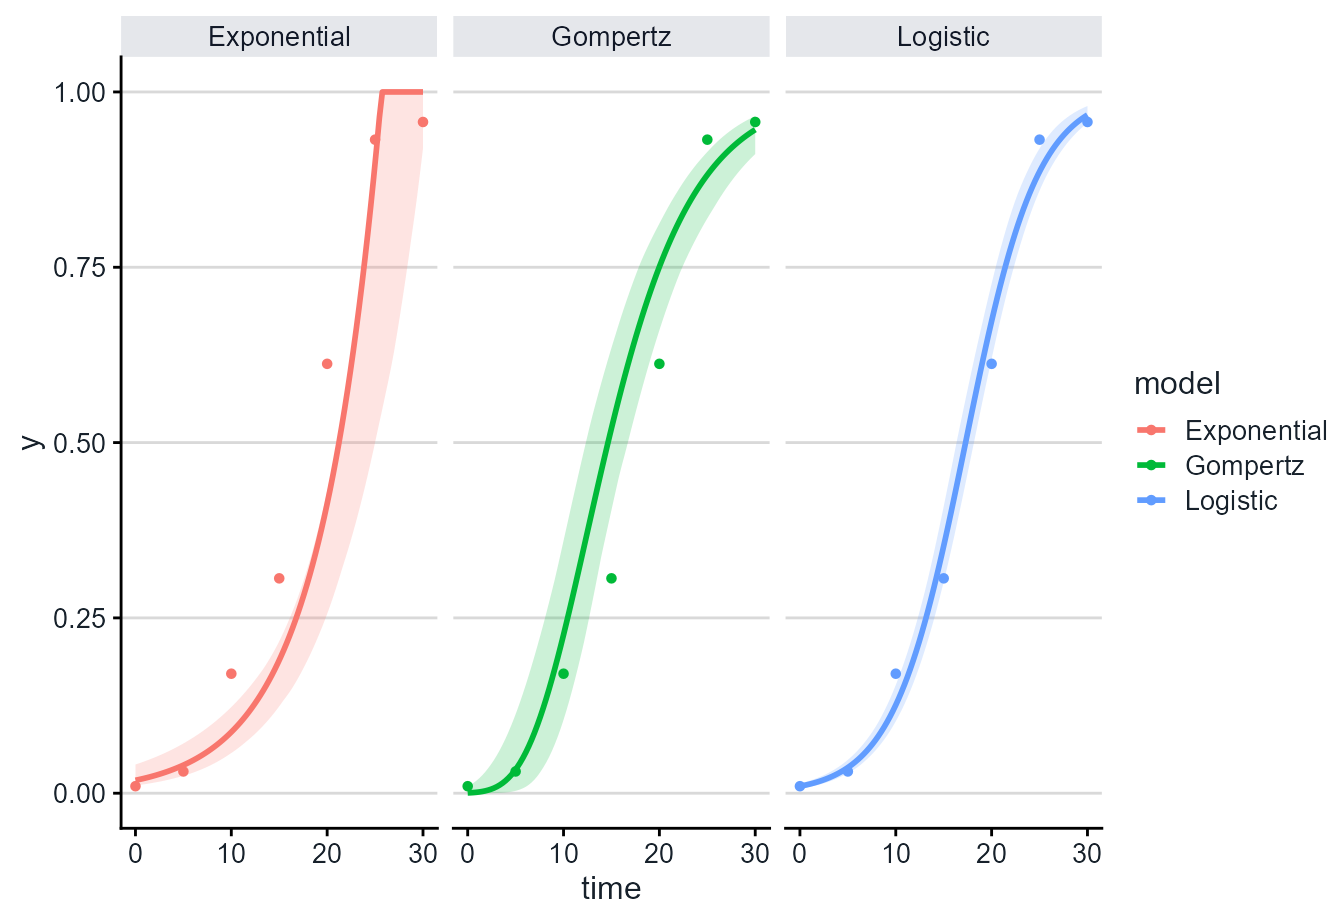
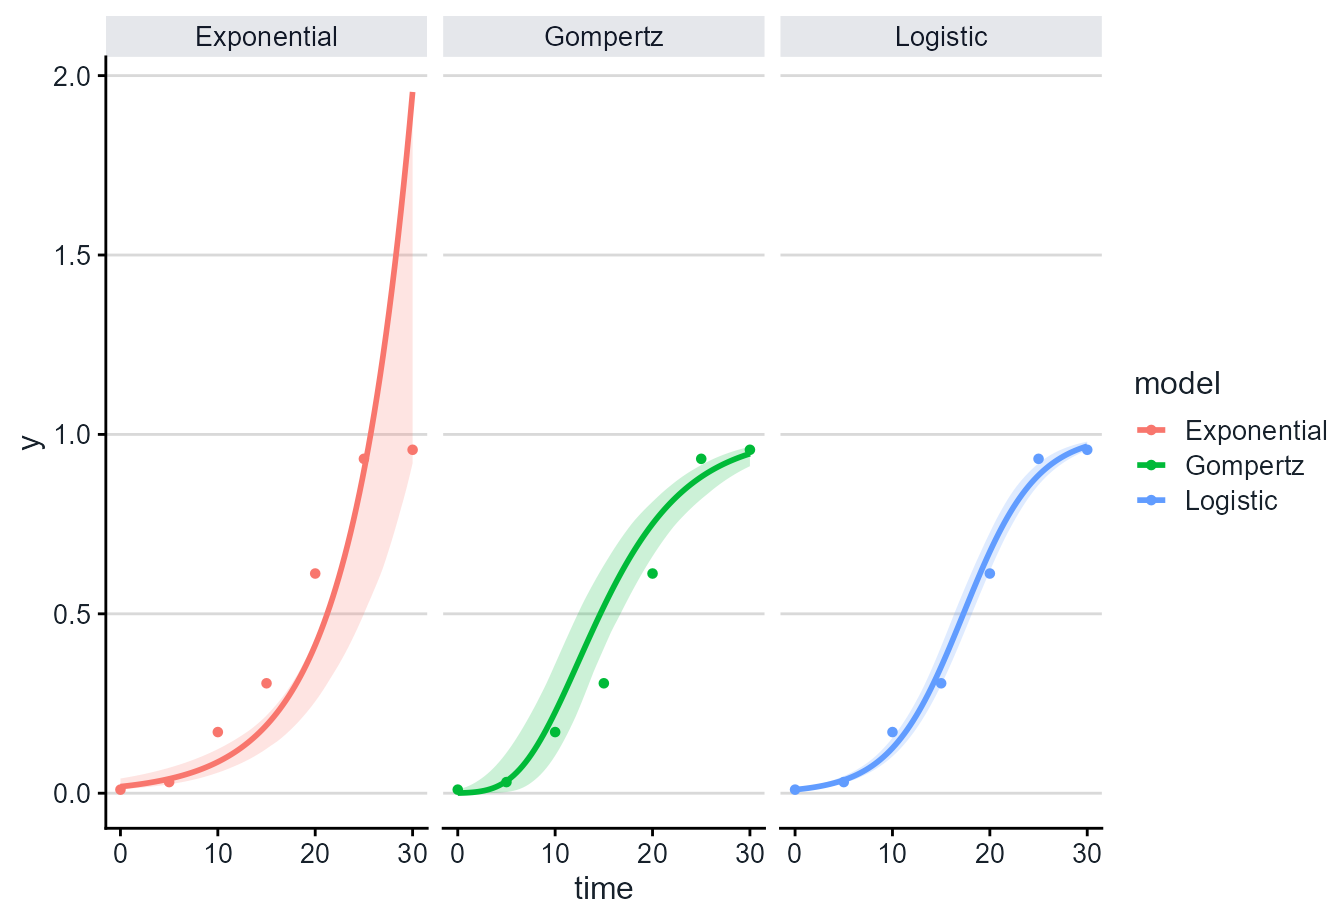
Clarify confidence band interpretation

diff --git a/docs/articles/confidence-intervals.html b/docs/articles/confidence-intervals.html
@@ -30,7 +30,7 @@
 
     <a class="navbar-brand me-2" href="../index.html">epifitter</a>
 
-    <small class="nav-text text-muted me-auto" data-bs-toggle="tooltip" data-bs-placement="bottom" title="">1.0.0</small>
+    <small class="nav-text text-muted me-auto" data-bs-toggle="tooltip" data-bs-placement="bottom" title="">1.0.1</small>
 
 
     <button class="navbar-toggler" type="button" data-bs-toggle="collapse" data-bs-target="#navbar" aria-controls="navbar" aria-expanded="false" aria-label="Toggle navigation">
@@ -189,9 +189,17 @@ time.</p>
 <span>  conf_int <span class="op">=</span> <span class="cn">TRUE</span>,</span>
 <span>  ci_method <span class="op">=</span> <span class="st">"bootstrap"</span>,</span>
 <span>  nsim <span class="op">=</span> <span class="fl">100</span>,</span>
-<span>  seed <span class="op">=</span> <span class="fl">123</span></span>
+<span>  seed <span class="op">=</span> <span class="fl">123</span>,</span>
+<span>  y_bounds <span class="op">=</span> <span class="cn">NULL</span></span>
 <span><span class="op">)</span></span></code></pre></div>
 <p><img src="confidence-intervals_files/figure-html/unnamed-chunk-5-1.png" alt="Fitted exponential, logistic, and Gompertz disease progress curves with bootstrap confidence bands." width="672" style="display: block; margin: auto;"></p>
+<p>Here <code>y_bounds = NULL</code> leaves fitted values on their
+natural model scale. This is useful when comparing model forms because
+the exponential model can extrapolate above 1, which is a warning sign
+when disease intensity is a proportion. The fitted curve also does not
+have to sit in the middle of the band: bootstrap intervals are built
+from quantiles of refitted curves, so they can be asymmetric when the
+model is nonlinear or poorly matched to the data.</p>
 </div>
 <div class="section level2">
 <h2 id="nonlinear-fits">Nonlinear fits<a class="anchor" aria-label="anchor" href="#nonlinear-fits"></a>